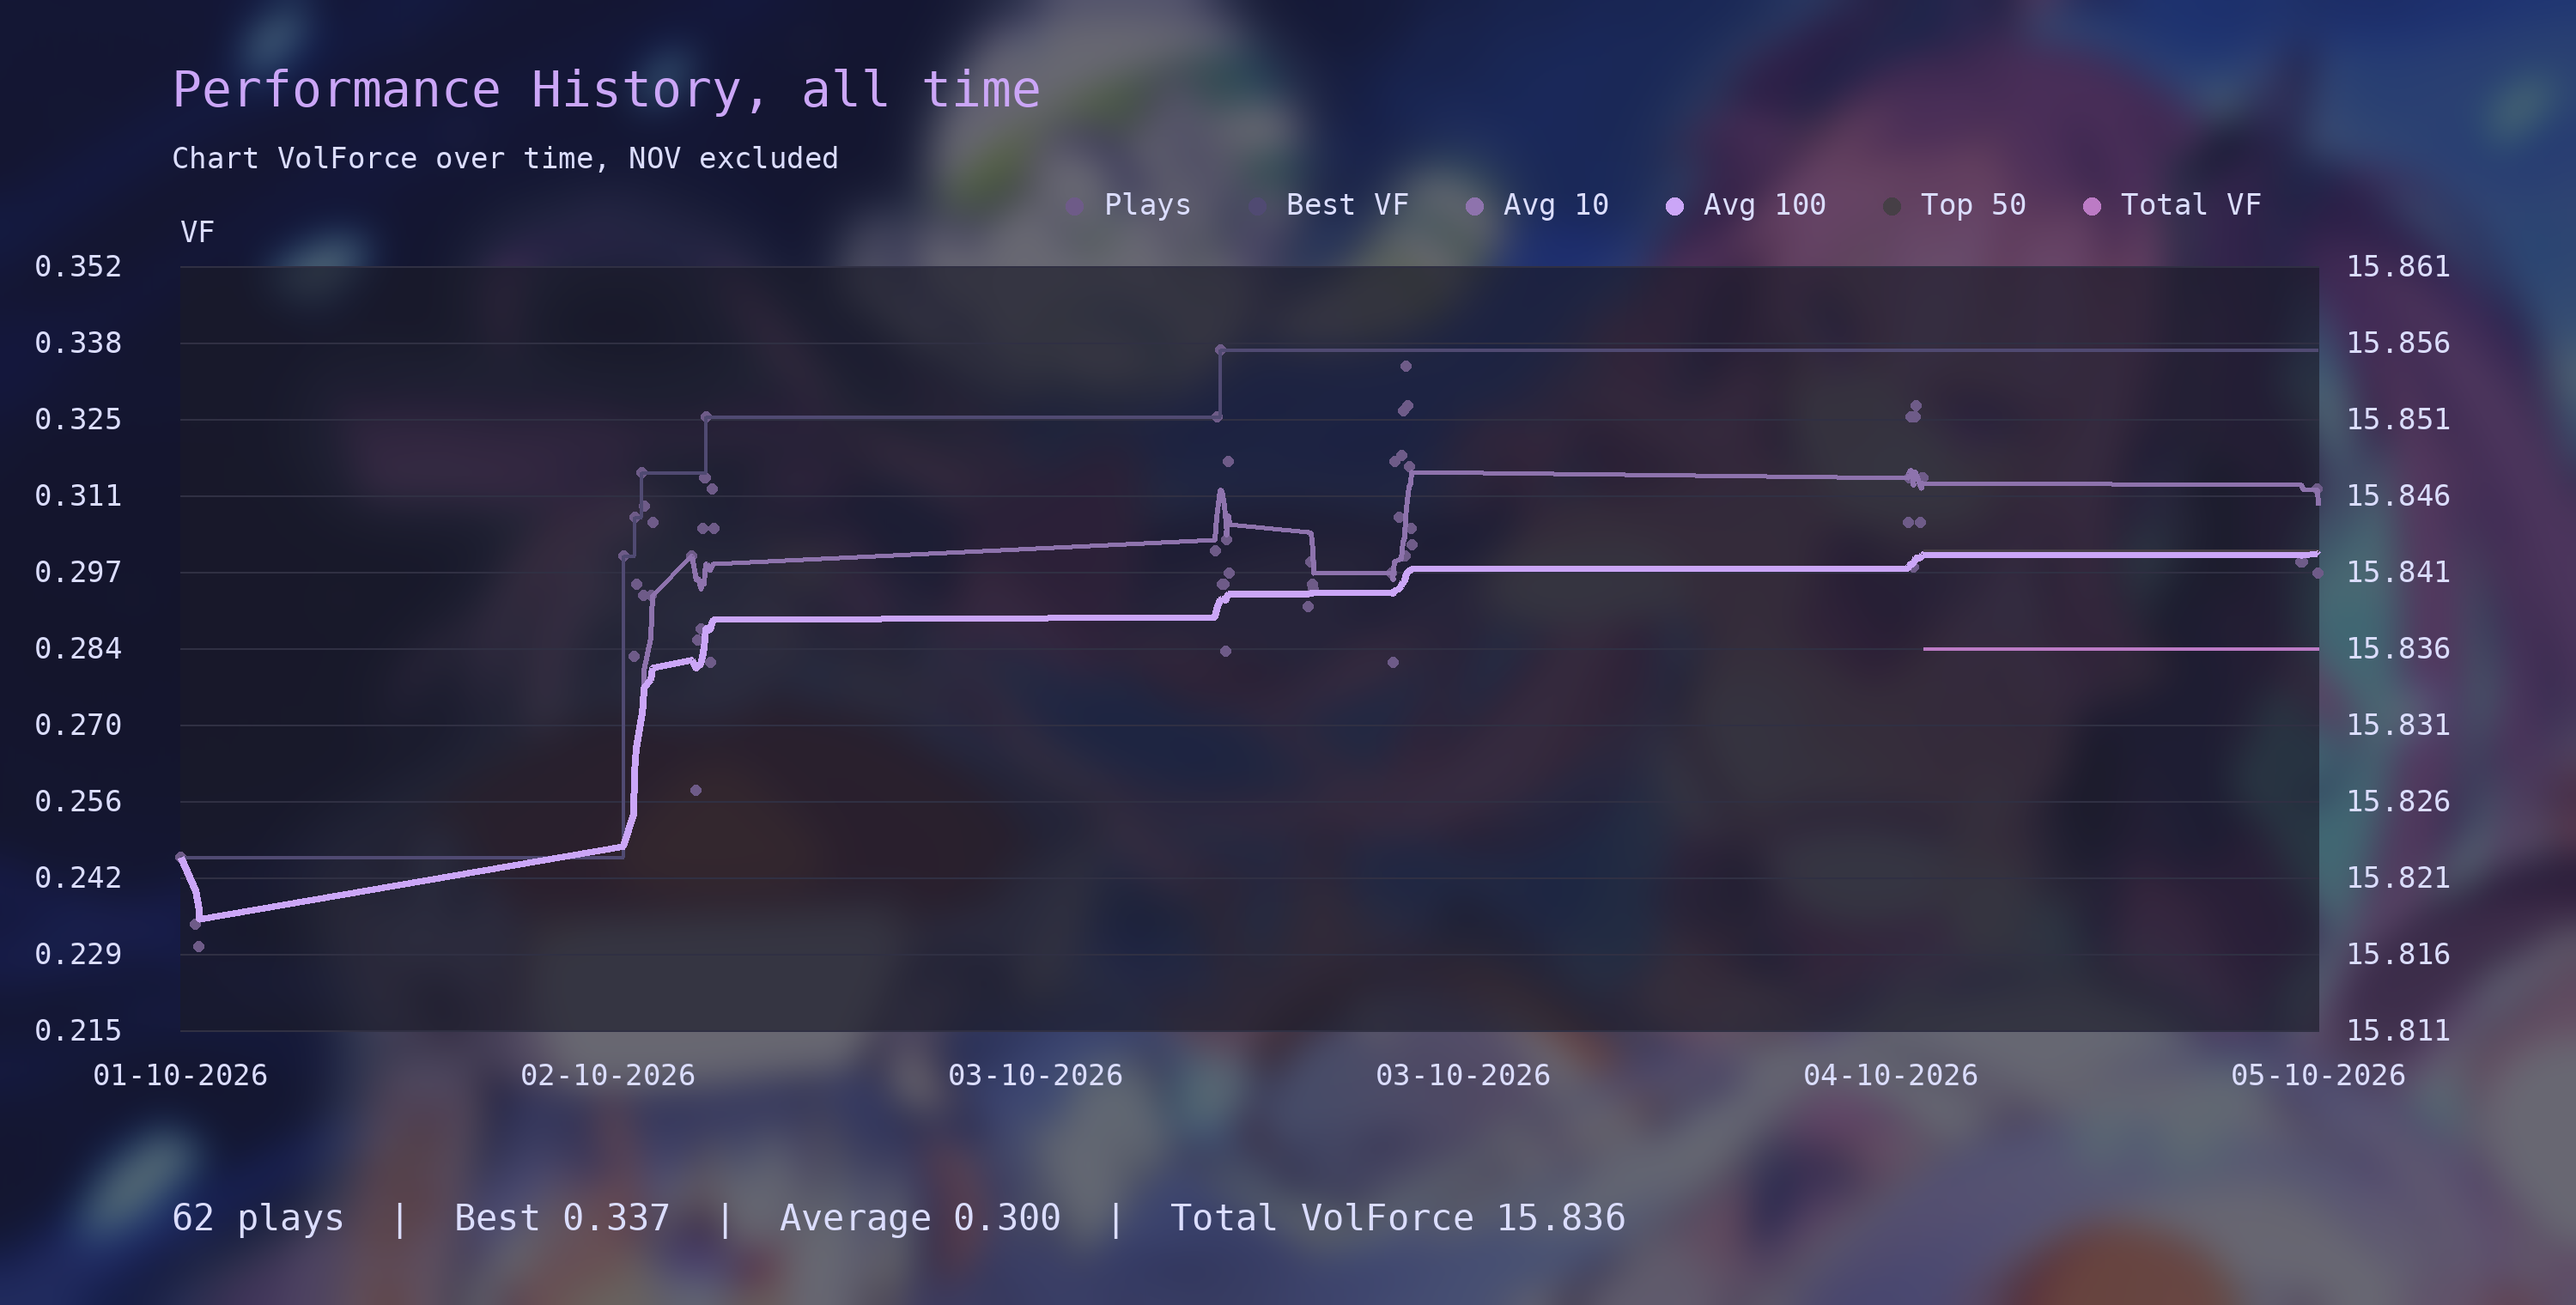
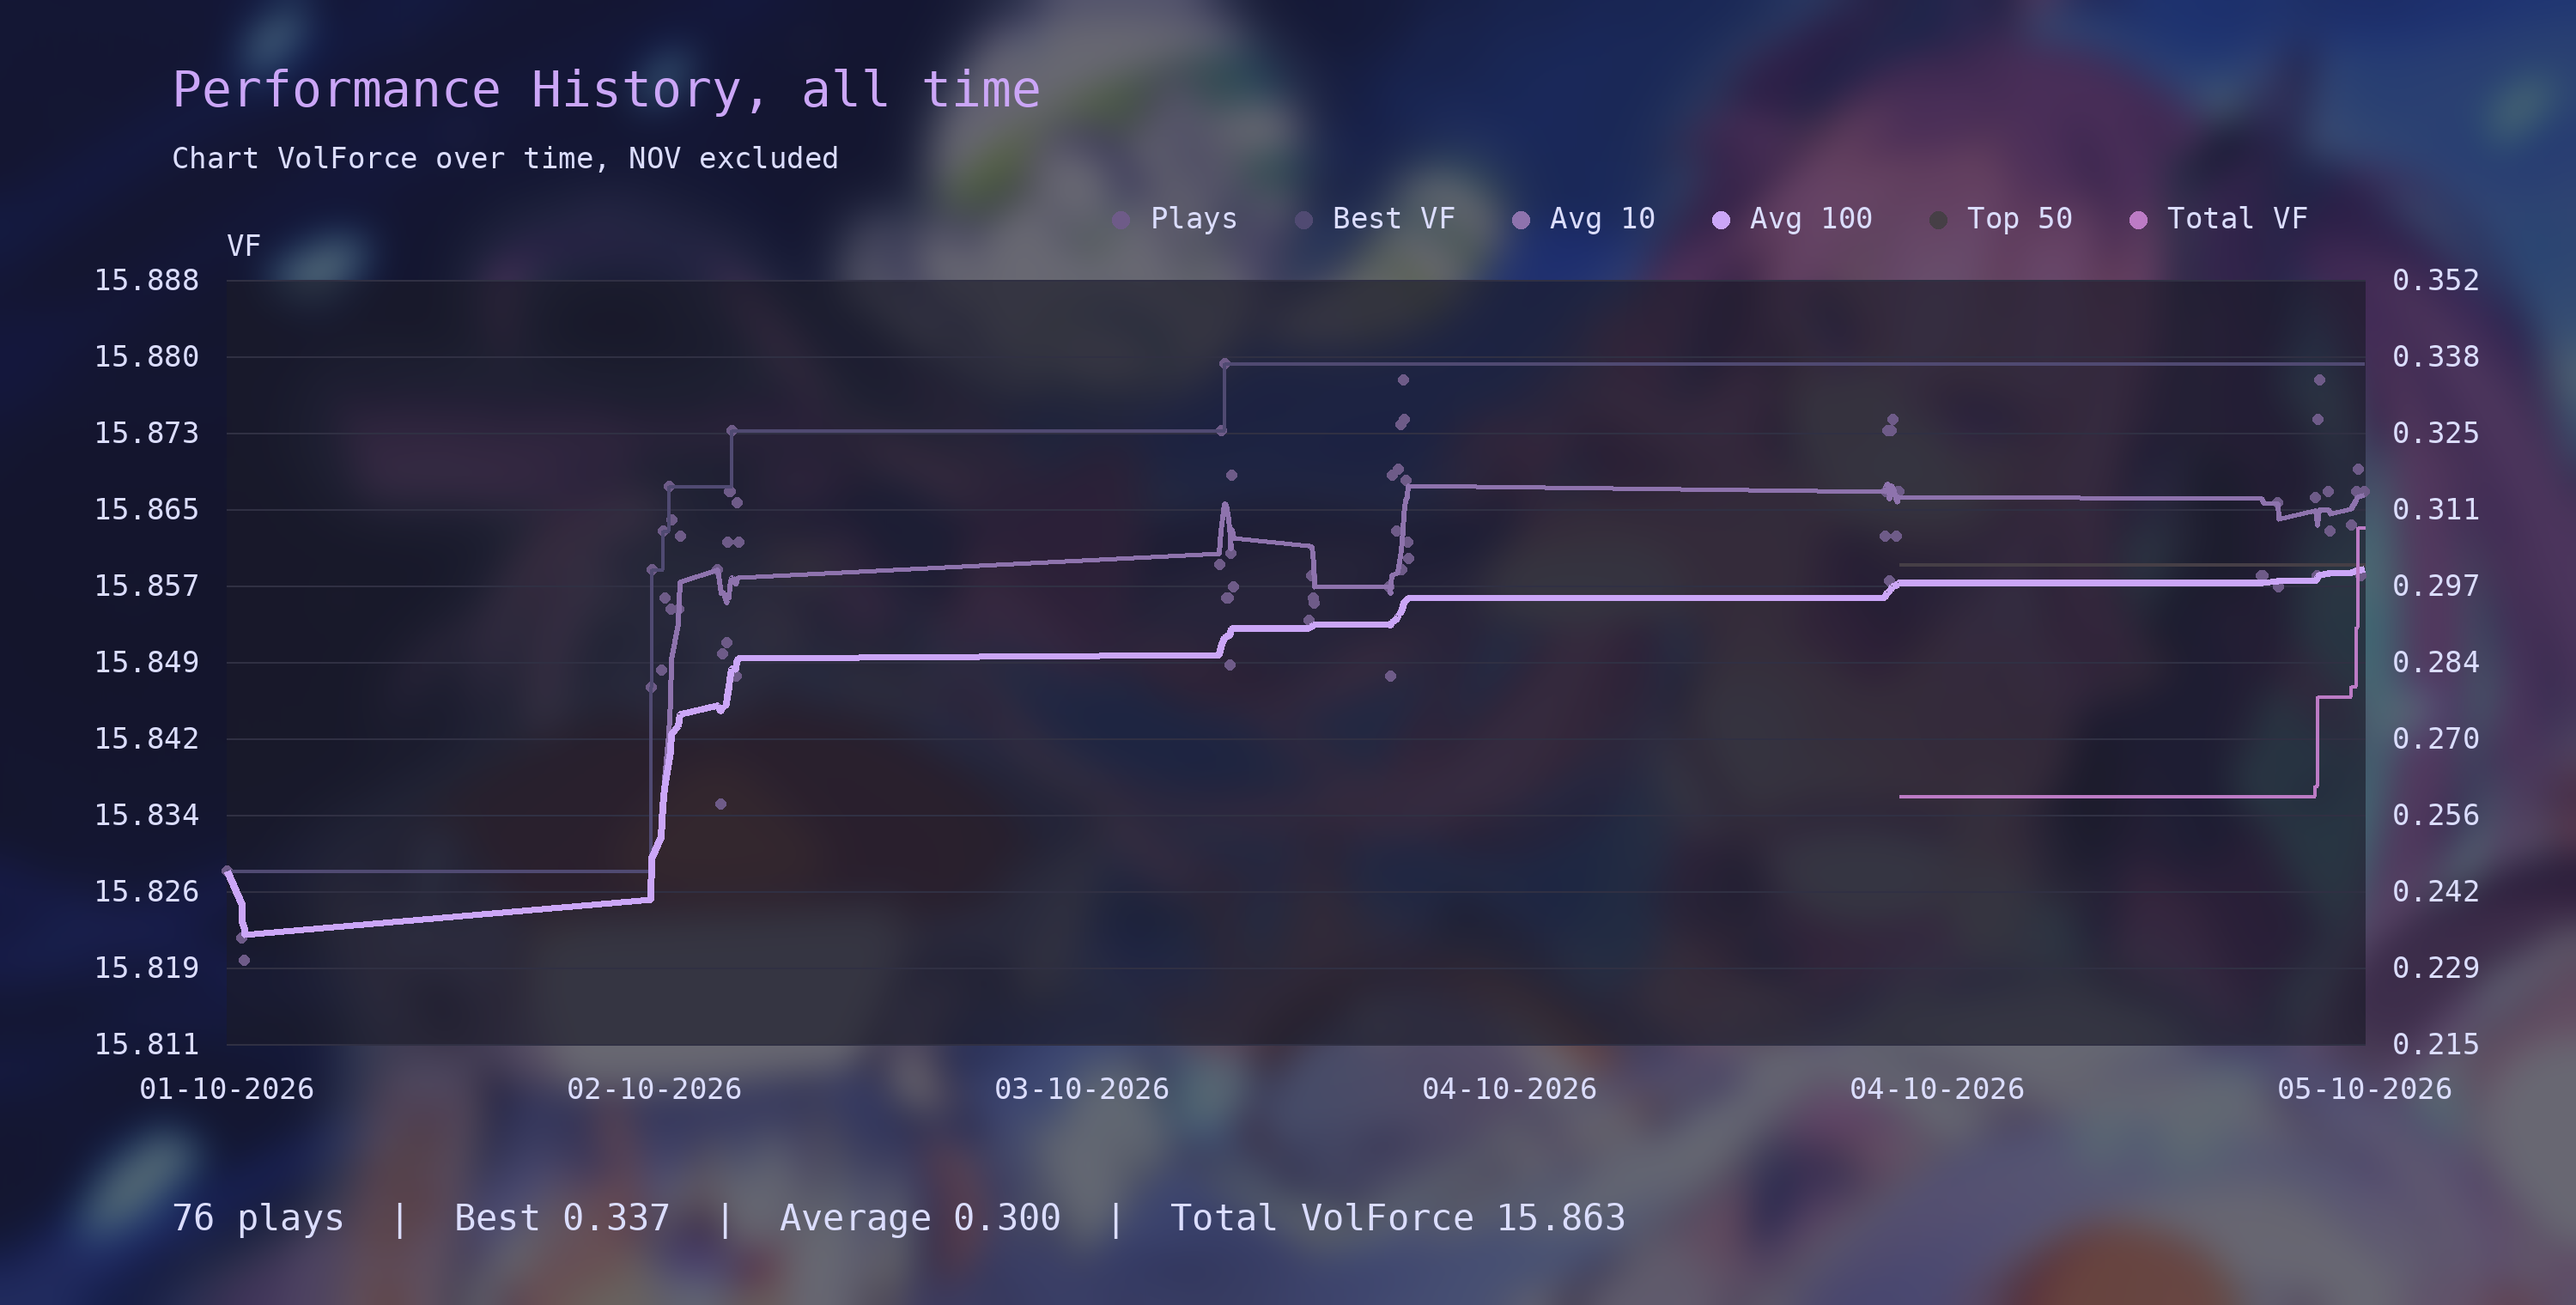
Center perf graph, switch VF and Total VF label axis

diff --git a/tracker/performance.py b/tracker/performance.py
@@ -229,7 +229,9 @@ def render_performance_graph(
         return max(1, round(value * scale))
 
     image = _performance_background(size)
-    draw = ImageDraw.Draw(image)
+    image_draw = ImageDraw.Draw(image)
+    graph = Image.new("RGBA", size, (0, 0, 0, 0))
+    draw = ImageDraw.Draw(graph)
 
     def font(size: int):
         return ImageFont.truetype(str(PERFORMANCE_FONT_PATH), pixels(size))
@@ -240,24 +242,13 @@ def render_performance_graph(
         PERFORMANCE_ACCENT_COLOR,
         PERFORMANCE_DIM_COLOR,
     )
-    draw.text((sx(100), sy(35)), title[:70], font=heading, fill=purple)
+    image_draw.text((sx(100), sy(35)), title[:70], font=heading, fill=purple)
     subtitle = "Chart VolForce over time"
     if exclude_difficulty:
         suffix = "" if exclude_difficulty == "NOV" else " and under"
         subtitle += f", {exclude_difficulty}{suffix} excluded"
-    draw.text((sx(100), sy(82)), subtitle, font=small, fill=muted)
+    image_draw.text((sx(100), sy(82)), subtitle, font=small, fill=muted)
     left, top, right, bottom = sx(105), sy(155), sx(1350 if history else 1410), sy(600)
-    # A translucent dark panel keeps the wallpaper visible under the plot.
-    panel_box = (left, top, right + 1, bottom + 1)
-    panel = image.crop(panel_box)
-    image.paste(
-        Image.blend(
-            panel,
-            Image.new("RGB", panel.size, PERFORMANCE_PANEL_COLOR),
-            PERFORMANCE_PANEL_DIM,
-        ),
-        (left, top),
-    )
     start, end = plays[0][0].timestamp(), plays[-1][0].timestamp()
     if history:
         end = max(end, max(record["timestamp"].timestamp() for record in history))
@@ -289,7 +280,8 @@ def render_performance_graph(
         y = top + index / 10 * (bottom - top)
         draw.line((left, y, right, y), fill=PERFORMANCE_GRID_COLOR, width=pixels(1))
         value = high - index / 10 * (high - low)
-        draw.text((left - sx(85), y - sy(10)), f"{value:.3f}", font=small, fill=muted)
+        axis_x = right + sx(16) if observations else left - sx(85)
+        draw.text((axis_x, y - sy(10)), f"{value:.3f}", font=small, fill=muted)
     for index in range(6):
         timestamp = datetime.fromtimestamp(
             start + index / 5 * (end - start), timezone.utc
@@ -376,17 +368,14 @@ def render_performance_graph(
             y = top + index / 10 * (bottom - top)
             value = total_high - index / 10 * (total_high - total_low)
             draw.text(
-                (right + sx(16), y - sy(10)),
+                (
+                    left - sx(16) - draw.textlength(f"{value:.3f}", font=small),
+                    y - sy(10),
+                ),
                 f"{value:.3f}",
                 font=small,
                 fill=muted,
             )
-        draw.text(  # Total VF
-            (right - draw.textlength("", font=small), top - sy(30)),
-            "",
-            font=small,
-            fill=muted,
-        )
         total_points = step_segments(observations, "total_volforce", total_point)[0]
         if len(total_points) > 1:
             draw.line(total_points, fill=PERFORMANCE_TOTAL_COLOR, width=pixels(2))
@@ -397,7 +386,7 @@ def render_performance_graph(
                 (x - radius, y - radius, x + radius, y + radius),
                 fill=PERFORMANCE_TOTAL_COLOR,
             )
-    draw.text(
+    image_draw.text(
         (sx(100), sy(697)),
         f"{len(plays):,} plays  |  Best {maximum:.3f}  |  Average {average:.3f}"
         + "  |  Total VolForce "
@@ -425,6 +414,28 @@ def render_performance_graph(
         )
         draw.text((legend_x + sx(22), sy(109)), label, font=small, fill=muted)
         legend_x += draw.textlength(label, font=small) + sx(55)
+
+    # Center the plot, ticks, axis heading, and legend as one group.
+    # Header and summary text stay at their original positions.
+    bounds = graph.getbbox()
+    offset_x = round((size[0] - (bounds[2] - bounds[0])) / 2) - bounds[0]
+    offset_y = round((size[1] - (bounds[3] - bounds[1])) / 2) - bounds[1]
+    panel_box = (
+        left + offset_x,
+        top + offset_y,
+        right + offset_x + 1,
+        bottom + offset_y + 1,
+    )
+    panel = image.crop(panel_box)
+    image.paste(
+        Image.blend(
+            panel,
+            Image.new("RGB", panel.size, PERFORMANCE_PANEL_COLOR),
+            PERFORMANCE_PANEL_DIM,
+        ),
+        panel_box[:2],
+    )
+    image.paste(graph, (offset_x, offset_y), graph)
     output = BytesIO()
     image.save(output, format="PNG")
     output.seek(0)
